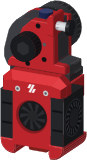
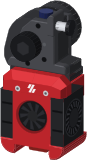
fix(toolhead): the Dragon Burner's extruder is dark, apart from the red cowl (prestonbrown/helixscreen#2081)
The Galileo 2 keeps its STEP geometry, motor behind the housing on the knob's axis, but its
plates, arm and body take the dark scheme of the earlier art so the extruder reads as its own
part above the cowl.

diff --git a/scripts/unit_art/heads/dragonburner.py b/scripts/unit_art/heads/dragonburner.py
@@ -8,7 +8,9 @@ import math
 
 from ..head import Drawing, HeadDef, rounded
 
-BODY, MOUNT, EXTRUDER, BLOWER, KNOB, DARK = "#b8242a", "#2f3034", "#3c3d42", "#232427", "#1a1b1e", "#101113"
+BODY, MOUNT, BLOWER, KNOB, DARK = "#b8242a", "#2f3034", "#232427", "#1a1b1e", "#101113"
+# The extruder is all dark, so it reads apart from the red cowl: its plates a shade lighter than its body.
+EXTRUDER_PLATE, EXTRUDER_BODY = "#45464b", "#333438"
 SCREW = "#c6c8cc"
 MM = 0.43 / 55.0
 
@@ -183,11 +185,11 @@ def _extruder(d):
         # The motor's laminations read as a lighter band round its middle.
         _axial_cylinder(d, ax, az, MOTOR_R + 0.3 * MM, 50.0 * MM, 58.0 * MM, "#3a3b40")
     _axial_cylinder(d, ax, az, RING_GEAR_R, *RING_GEAR_Y, "#232427")
-    d.solid(rounded(_mm(REAR_PLATE), 1.0 * MM), *REAR_PLATE_Y, BODY)
-    d.solid(rounded(_mm(MAIN_BODY), 1.0 * MM), *MAIN_BODY_Y, EXTRUDER)
+    d.solid(rounded(_mm(REAR_PLATE), 1.0 * MM), *REAR_PLATE_Y, EXTRUDER_PLATE)
+    d.solid(rounded(_mm(MAIN_BODY), 1.0 * MM), *MAIN_BODY_Y, EXTRUDER_BODY)
     d.collet(0.0, COLLET_Y, G2_TOP, color="#1c2452")
-    d.solid(rounded(_mm(FRONT_PLATE), 1.2 * MM), *FRONT_PLATE_Y, BODY, bevel=0.8 * MM)
-    d.solid(rounded(_mm(TENSIONER_ARM), 0.8 * MM), 11.3 * MM, 28.8 * MM, BODY, bevel=0.6 * MM)
+    d.solid(rounded(_mm(FRONT_PLATE), 1.2 * MM), *FRONT_PLATE_Y, EXTRUDER_PLATE, bevel=0.8 * MM)
+    d.solid(rounded(_mm(TENSIONER_ARM), 0.8 * MM), 11.3 * MM, 28.8 * MM, EXTRUDER_PLATE, bevel=0.6 * MM)
     # The tension spring and its thumb screw, lying across the top right.
     _cylinder_x(d, 18.3 * MM, 105.0 * MM, 3.4 * MM, 13.3 * MM, 23.0 * MM, "#b9bbc0", "#b9bbc0", n=10)
     _cylinder_x(d, 18.3 * MM, 105.0 * MM, 6.0 * MM, 23.0 * MM, 25.8 * MM, KNOB, "#25262a", n=18)
